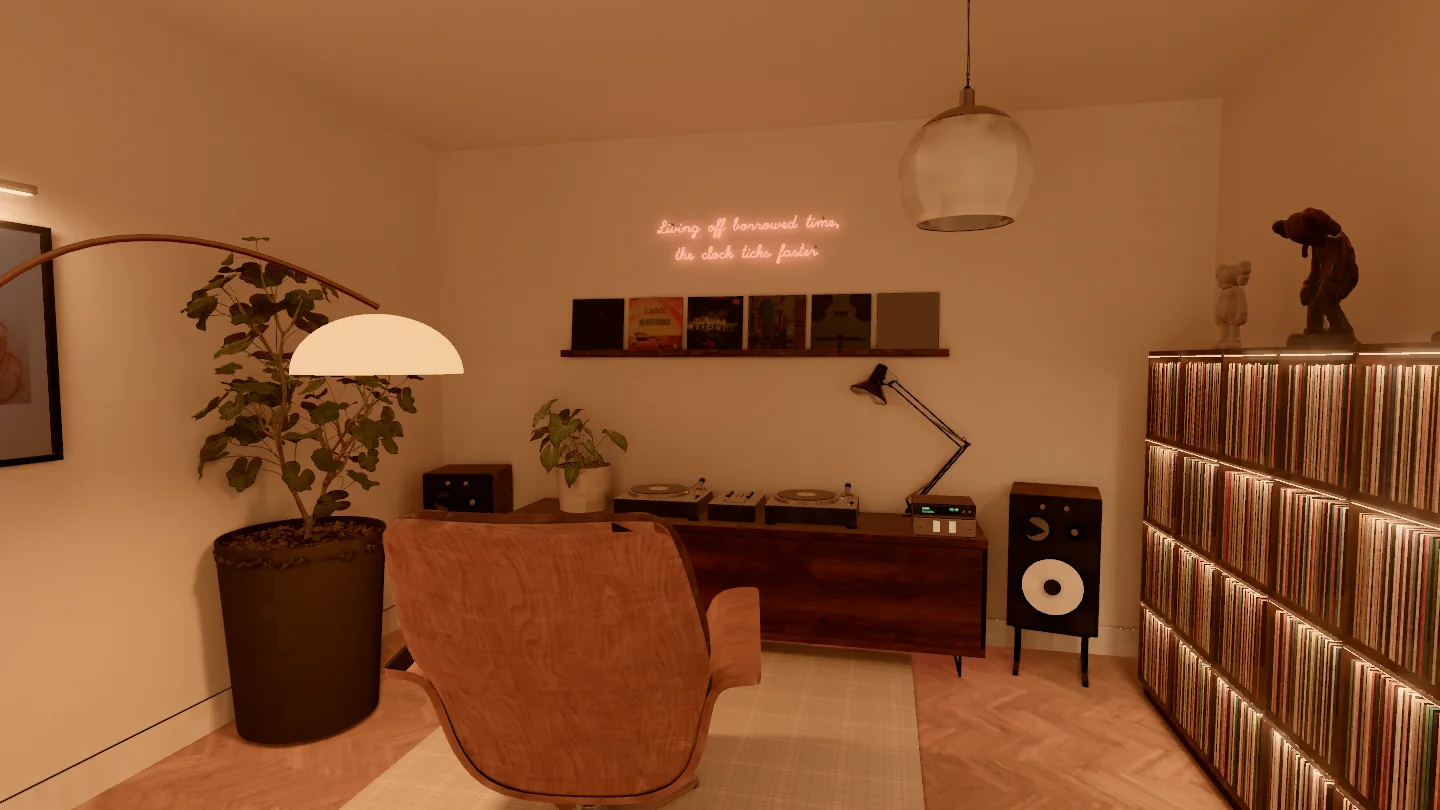
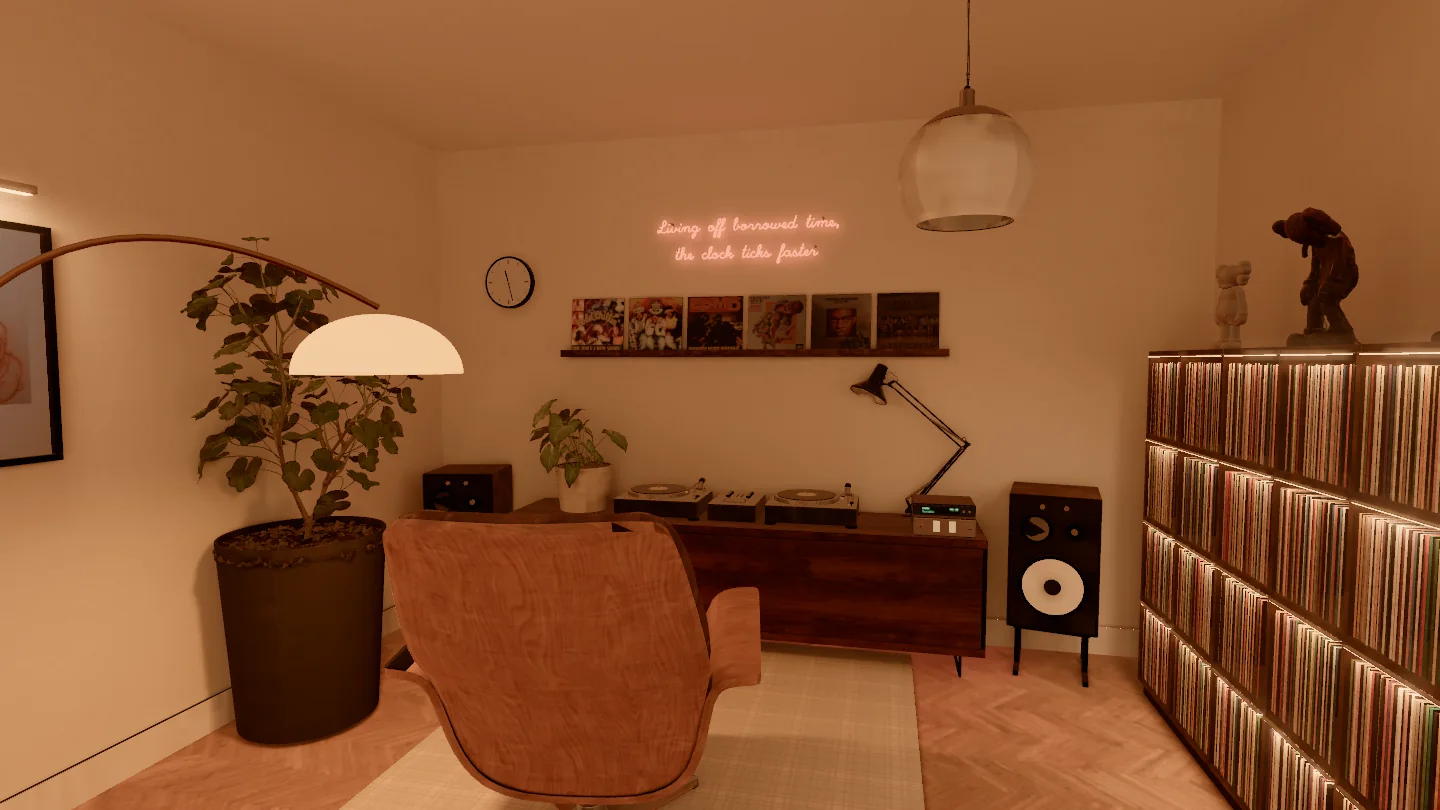
Listening Room post: new renders (clock on the wall, bottom bar, Credits link), share image, clock line
Claude-Session: https://claude.ai/code/session_01LommHjWzrAy5NjnEbuJJz3

Changed region(s): [[0.3438, 0.3086, 0.6562, 0.4321]]

diff --git a/writing/listening-room.html b/writing/listening-room.html
@@ -253,7 +253,7 @@ vec3 mixLightmaps(vec2 uv) {
             <ul>
                 <li><strong>The data:</strong> my Discogs collection (2,624 releases) with cover art, and a bio for each artist. It's checked against the actual Discogs artist and the record's genre before it's shown, from Wikipedia where the page fits, or Discogs's own profile where it doesn't. Without those checks, "Busy Bee" comes back as an insect.</li>
                 <li><strong>The streamer:</strong> SoundCloud's official player, kept visible as their terms ask.</li>
-                <li><strong>The clock:</strong> on the wall by the records, showing your own local time, second hand sweeping.</li>
+                <li><strong>The clock:</strong> on the wall above the decks, showing your own local time, second hand sweeping. (Type DOOM and watch it.)</li>
                 <li><strong>The site:</strong> plain HTML and three.js, no framework. Hosted on Vercel in London, served at theluckystrike.co.uk/listening-room.</li>
                 <li><strong>Weight:</strong> the room is compressed from 40 MB to 12.6 MB for desktop, and 5.8 MB for phones.</li>
             </ul>
